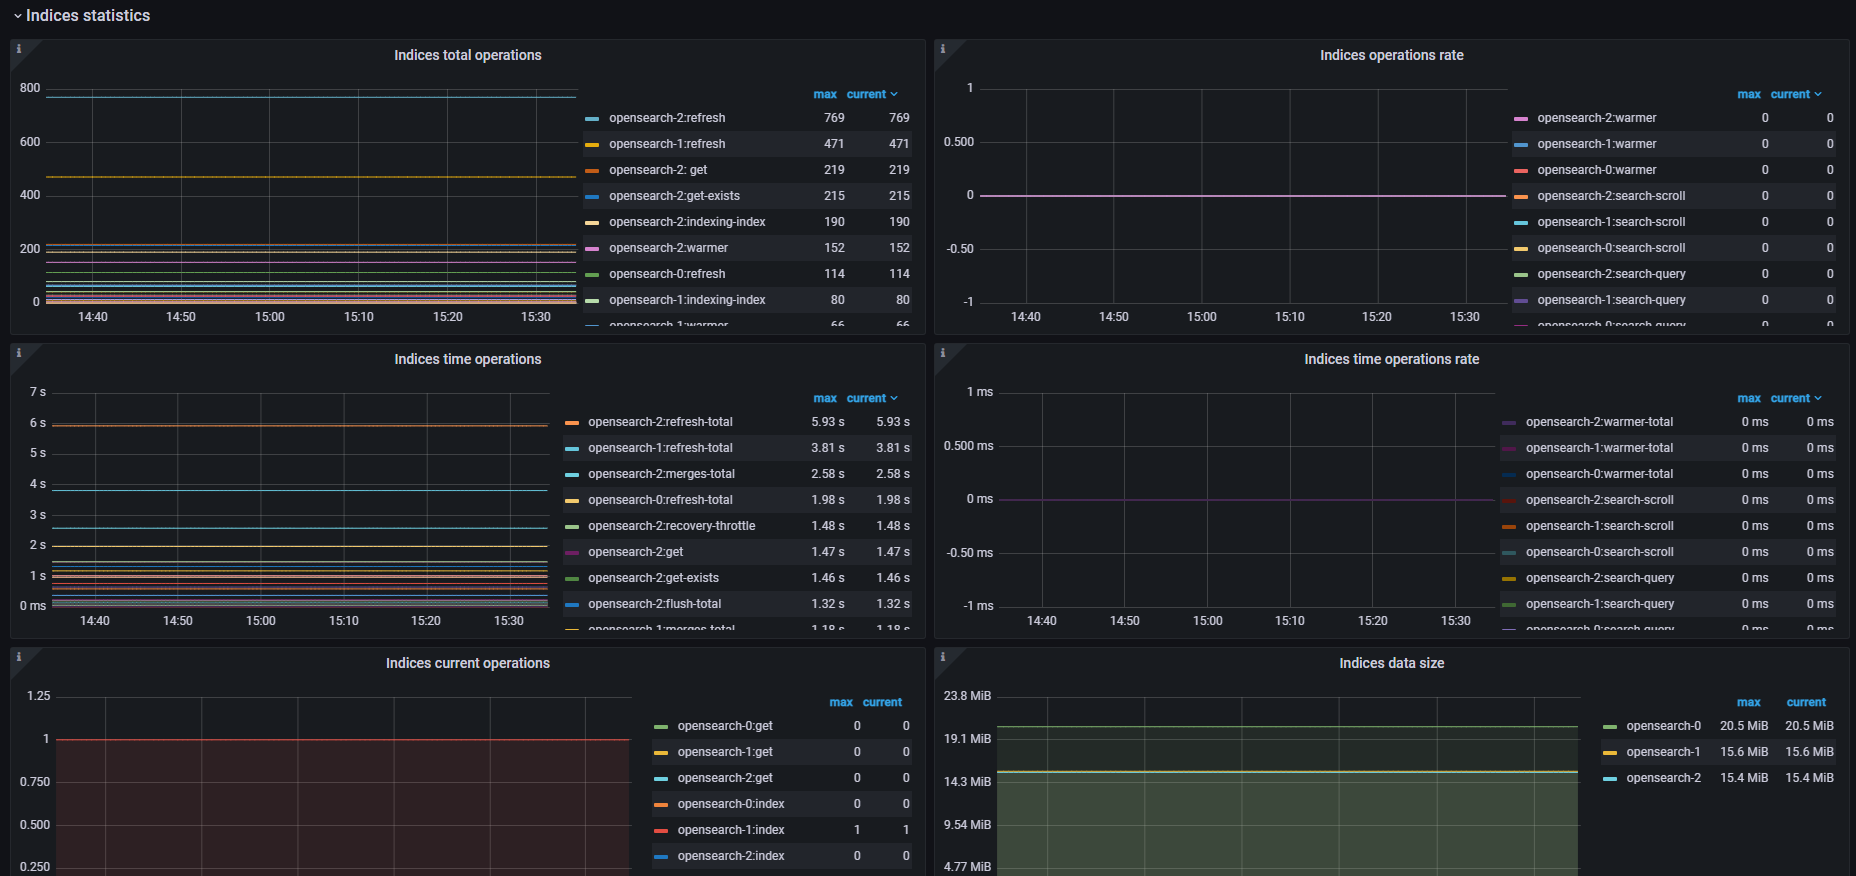
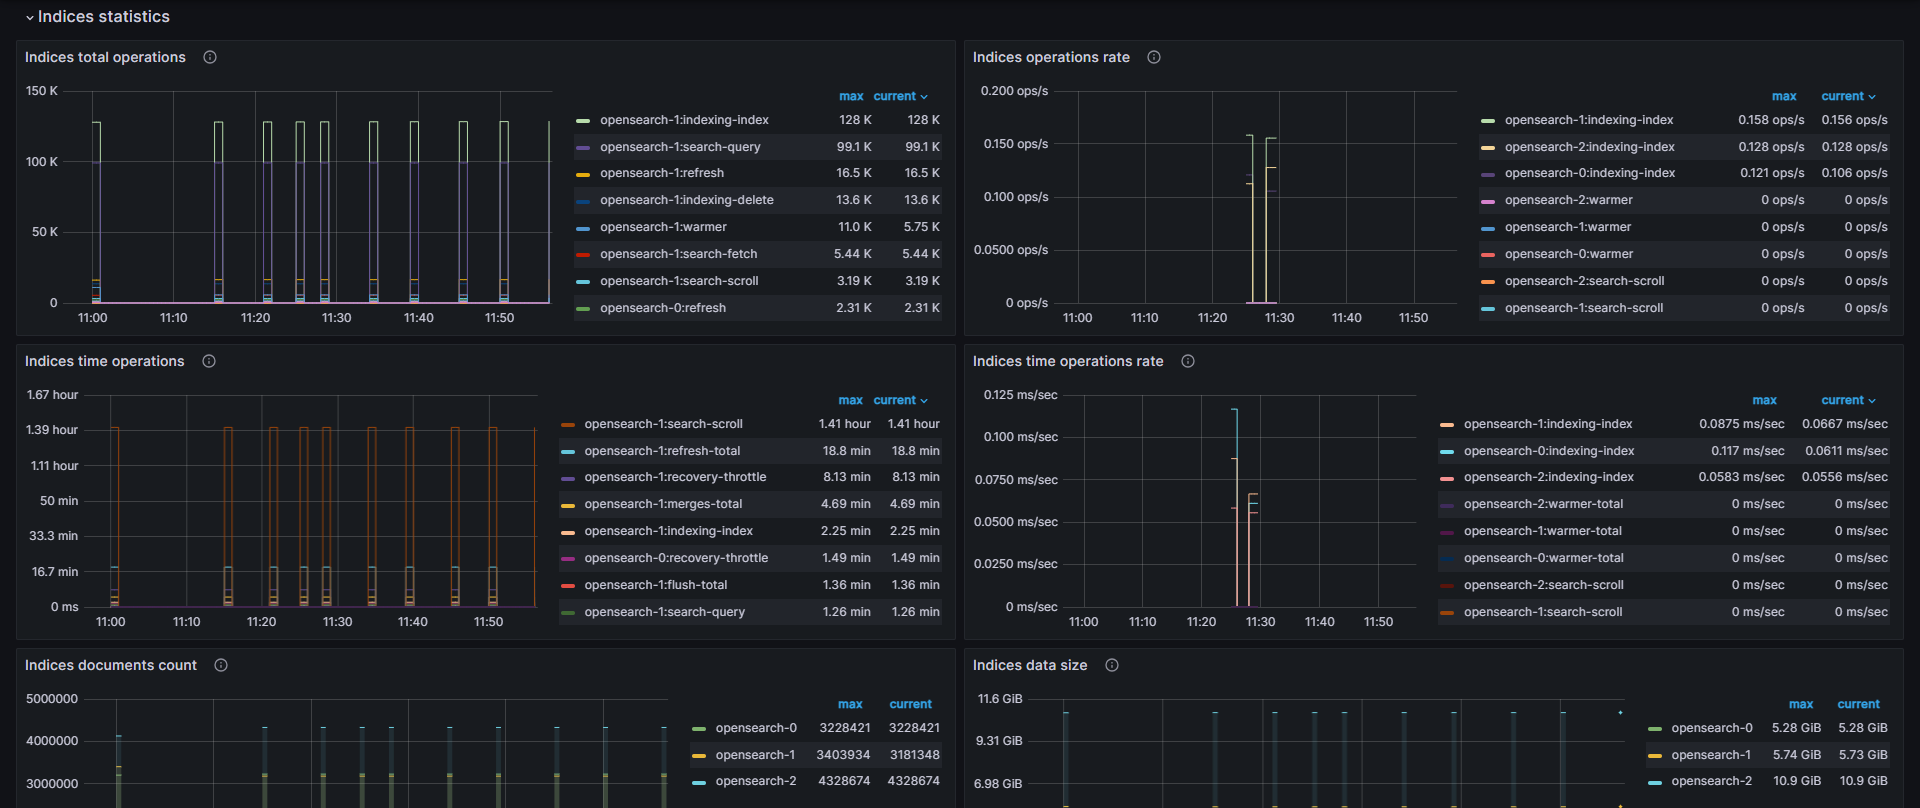
MANOPD-76675. Fix indices current operations metric

diff --git a/documentation/maintenance-guide/monitoring/README.md b/documentation/maintenance-guide/monitoring/README.md
@@ -183,8 +183,6 @@ grouped by both the node name and the node host.
 * `Indices time operations` - The average time to complete an operation in indices grouped by 
   operation type and OpenSearch node.
 * `Indices time operations rate` - The average time to complete an operation in indices per second grouped by operation type and OpenSearch node.
-* `Indices current operations` - The number of operations performed by indices at the moment grouped 
-  by operation type and OpenSearch node.
 * `Indices data size` - The size of data stored in indices grouped by OpenSearch nodes.
 * `Indices documents count` - The number of documents stored in indices grouped by OpenSearch nodes.
 * `Indices documents rate` - The number of documents added to indices per second grouped by OpenSearch nodes.
